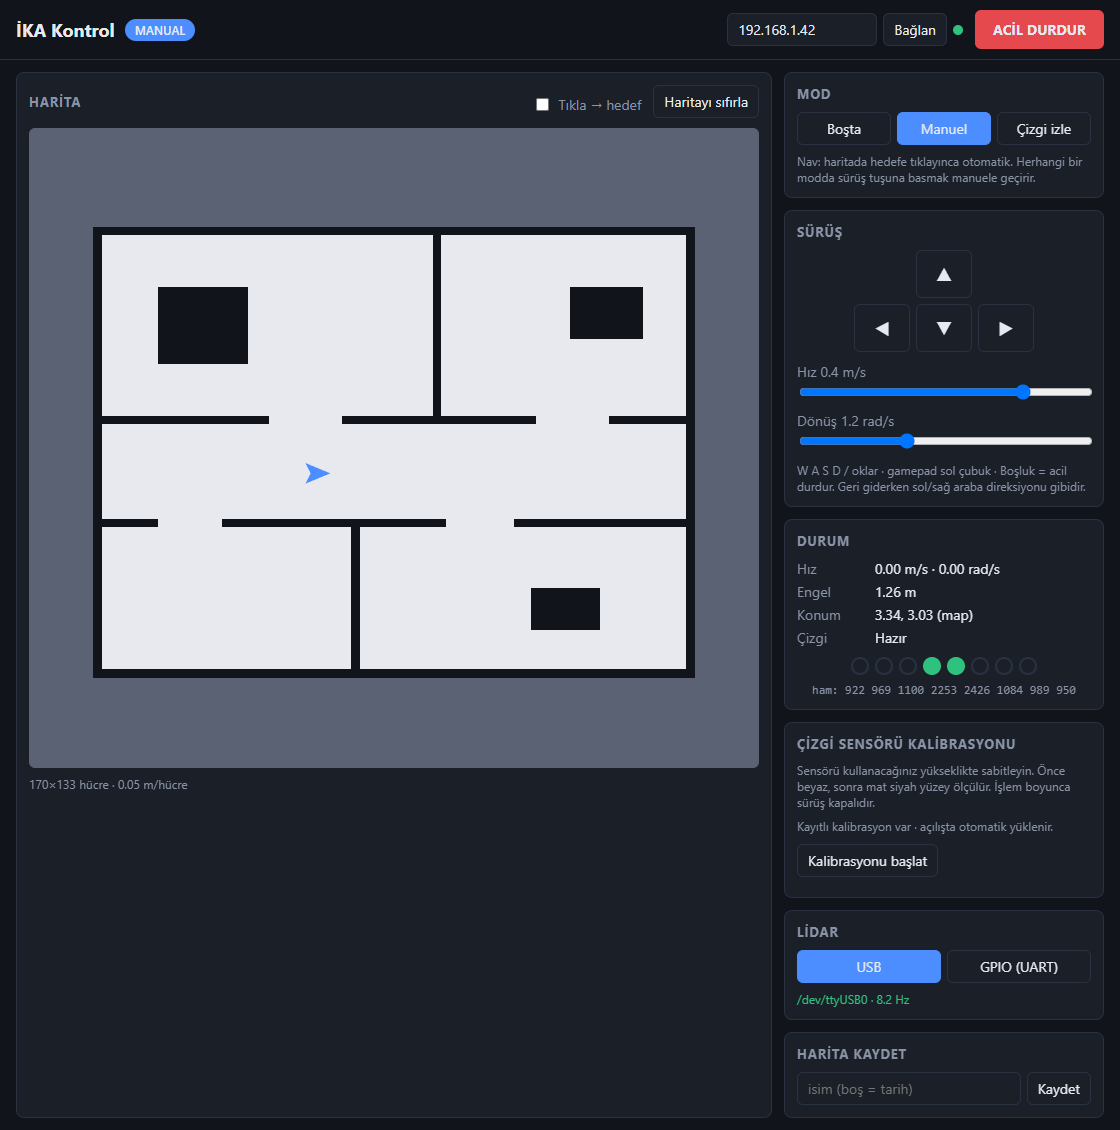
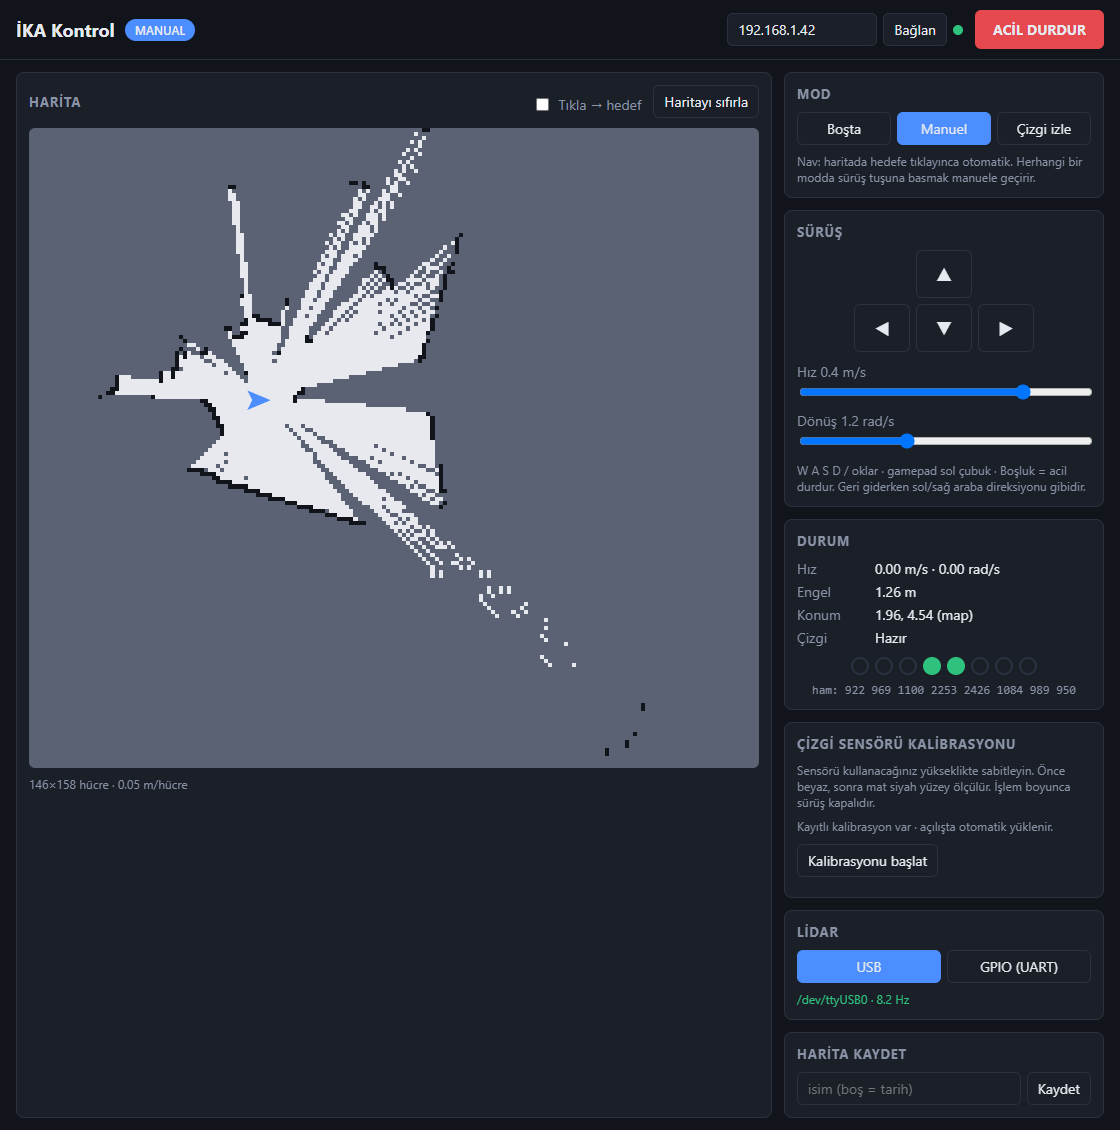
docs: web arayüzünde kayıtlı lidar haritasını göster

Changed region(s): [[0.0625, 0.1239, 0.625, 0.6195], [0.7812, 0.5265, 0.8125, 0.5575]]

diff --git a/README.md b/README.md
@@ -85,7 +85,7 @@ docker run --rm -p 8000:8000 -p 9090:9090 ika-ros:jazzy ros2 launch ika_bringup 
 
 [![İKA Kontrol ekranında harita, robot konumu, sürüş, sensör kalibrasyonu ve lidar panelleri](docs/img/ika-web-arayuzu.png)](docs/img/ika-web-arayuzu.png)
 
-*İKA Kontrol ekranı, örnek harita ve sensör verileriyle.*
+*İKA Kontrol ekranı, kayıtlı bir lidar taramasından aktarılan harita ve örnek sensör değerleriyle.*
 
 ### Arayüze nasıl bağlanılır?
 
